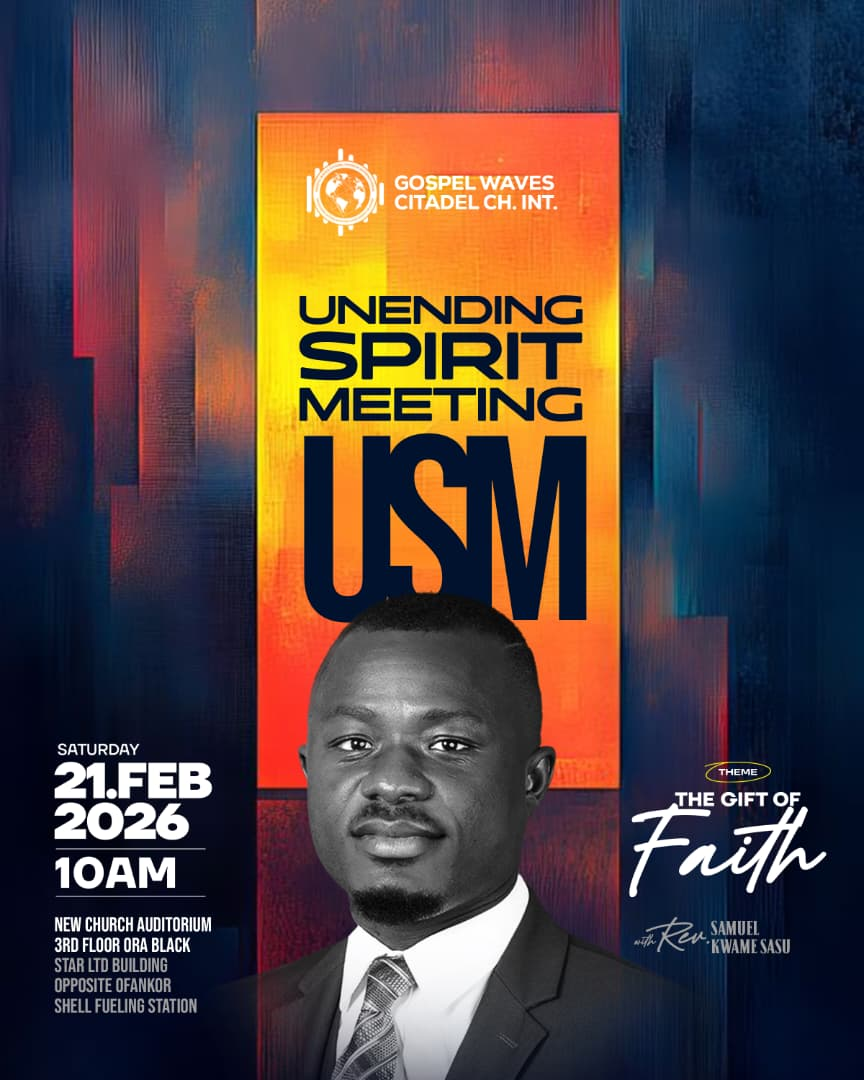
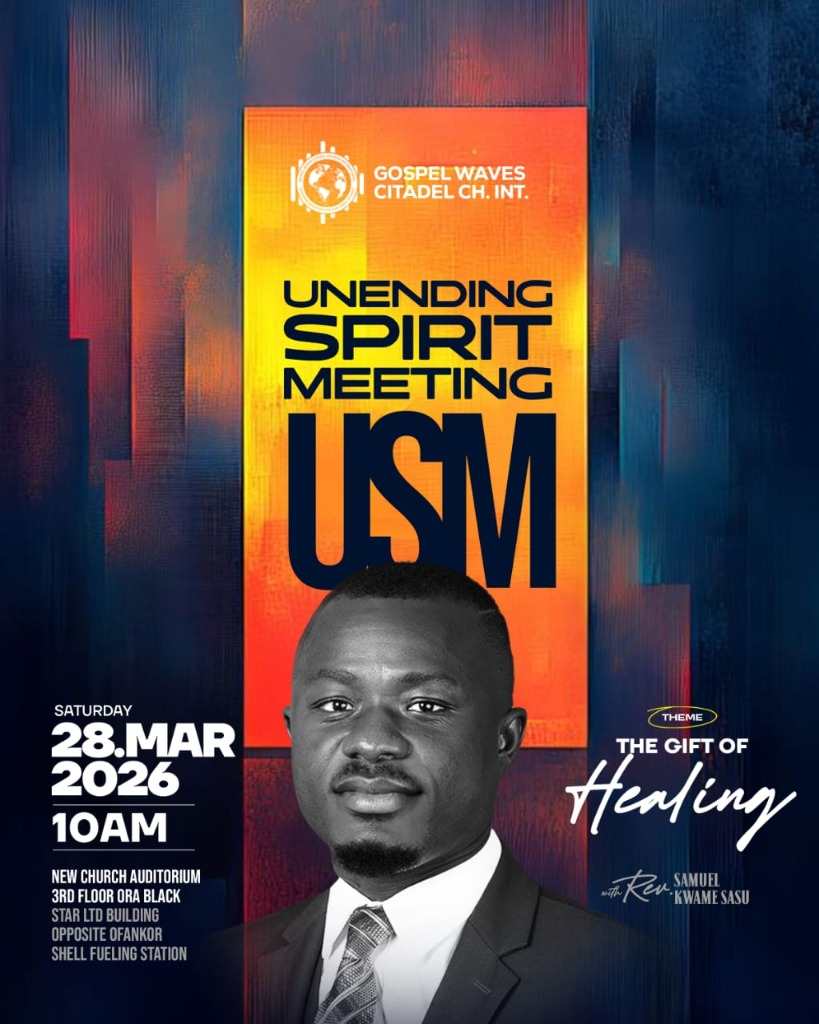
Update event date to March 28th, time to 10 AM, add Theme, and replace flyer image

diff --git a/index.html b/index.html
@@ -1,27 +1,33 @@
 <!doctype html>
 <html lang="en">
-  <head>
-    <meta charset="UTF-8" />
-    <link rel="icon" type="image/jpeg" href="/USM.jpeg" />
-    <meta name="viewport" content="width=device-width, initial-scale=1.0" />
-    
-    <!-- SEO & Social Sharing (Open Graph) -->
-    <title>USM Registration - Gospel Waves Citadel</title>
-    <meta name="description" content="Register for the Unending Spirit Meeting (USM) at Gospel Waves Citadel Ch. Int. Confirm your attendance today!" />
-    <meta property="og:title" content="Unending Spirit Meeting (USM) Registration" />
-    <meta property="og:description" content="Register for USM at Gospel Waves Citadel Ch. Int. Don't miss out on this powerful return!" />
-    <meta property="og:image" content="https://usm-registeration.vercel.app/USM.jpeg" />
-    <meta property="og:url" content="https://usm-registeration.vercel.app/" />
-    <meta property="og:type" content="website" />
-    
-    <!-- Twitter Card -->
-    <meta name="twitter:card" content="summary_large_image" />
-    <meta name="twitter:title" content="Unending Spirit Meeting (USM) Registration" />
-    <meta name="twitter:description" content="Register for USM at Gospel Waves Citadel Ch. Int. Confirm your attendance today!" />
-    <meta name="twitter:image" content="https://usm-registeration.vercel.app/USM.jpeg" />
-  </head>
-  <body>
-    <div id="root"></div>
-    <script type="module" src="/src/main.tsx"></script>
-  </body>
+
+<head>
+  <meta charset="UTF-8" />
+  <link rel="icon" type="image/jpeg" href="/USM.jpeg" />
+  <meta name="viewport" content="width=device-width, initial-scale=1.0" />
+
+  <!-- SEO & Social Sharing (Open Graph) -->
+  <title>USM Registration - Gospel Waves Citadel</title>
+  <meta name="description"
+    content="Register for the Unending Spirit Meeting (USM) at Gospel Waves Citadel Ch. Int. Confirm your attendance today!" />
+  <meta property="og:title" content="Unending Spirit Meeting (USM) Registration" />
+  <meta property="og:description"
+    content="Register for USM at Gospel Waves Citadel Ch. Int. Don't miss out on this powerful return!" />
+  <meta property="og:image" content="https://usm-registeration.vercel.app/USM.jpeg" />
+  <meta property="og:url" content="https://usm-registeration.vercel.app/" />
+  <meta property="og:type" content="website" />
+
+  <!-- Twitter Card -->
+  <meta name="twitter:card" content="summary_large_image" />
+  <meta name="twitter:title" content="Unending Spirit Meeting (USM) Registration" />
+  <meta name="twitter:description"
+    content="Register for USM at Gospel Waves Citadel Ch. Int. Confirm your attendance today!" />
+  <meta name="twitter:image" content="https://usm-registeration.vercel.app/USM.jpeg" />
+</head>
+
+<body>
+  <div id="root"></div>
+  <script type="module" src="/src/main.tsx"></script>
+</body>
+
 </html>

diff --git a/src/Component/Registration.tsx b/src/Component/Registration.tsx
@@ -13,6 +13,7 @@ import {
     UserPlus,
     ChevronRight,
     Mail,
+    Sparkles,
 } from 'lucide-react'
 
 import flyerImage from '../assets/USM.jpeg'
@@ -182,7 +183,7 @@ export default function Registration() {
                     <div style={{ position: 'absolute', bottom: '20px', left: '32px' }}>
                         <div className="event-badge">
                             <Calendar size={14} />
-                            21st Feb
+                            28th March
                         </div>
                         <h1>USM<br />Registration</h1>
                     </div>
@@ -215,8 +216,18 @@ export default function Registration() {
                                     <Clock size={16} />
                                 </div>
                                 <div className="info-detail-text">
-                                    <h4>9:00 AM</h4>
+                                    <h4>10:00 AM</h4>
                                     <p>Doors open early</p>
+                                </div>
+                            </div>
+
+                            <div className="info-detail">
+                                <div className="info-icon">
+                                    <Sparkles size={16} />
+                                </div>
+                                <div className="info-detail-text">
+                                    <h4>Theme</h4>
+                                    <p>The Gift of Healing</p>
                                 </div>
                             </div>
 
